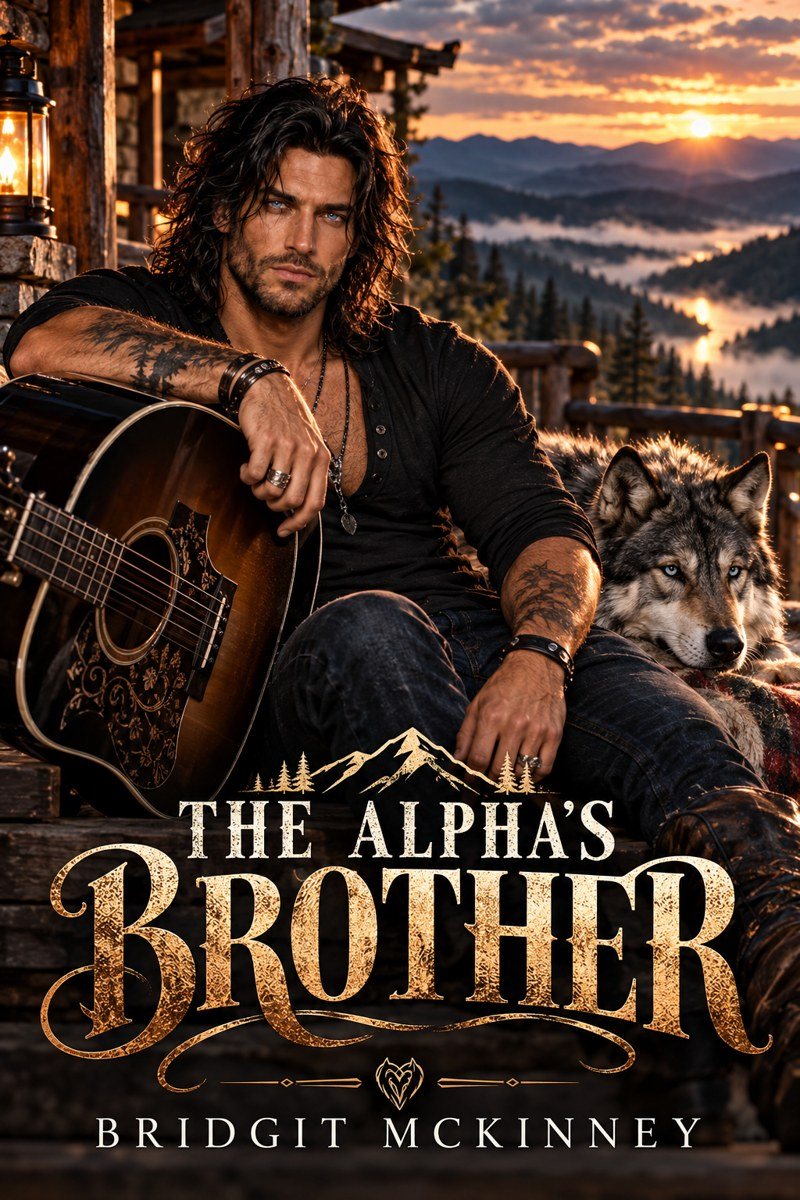
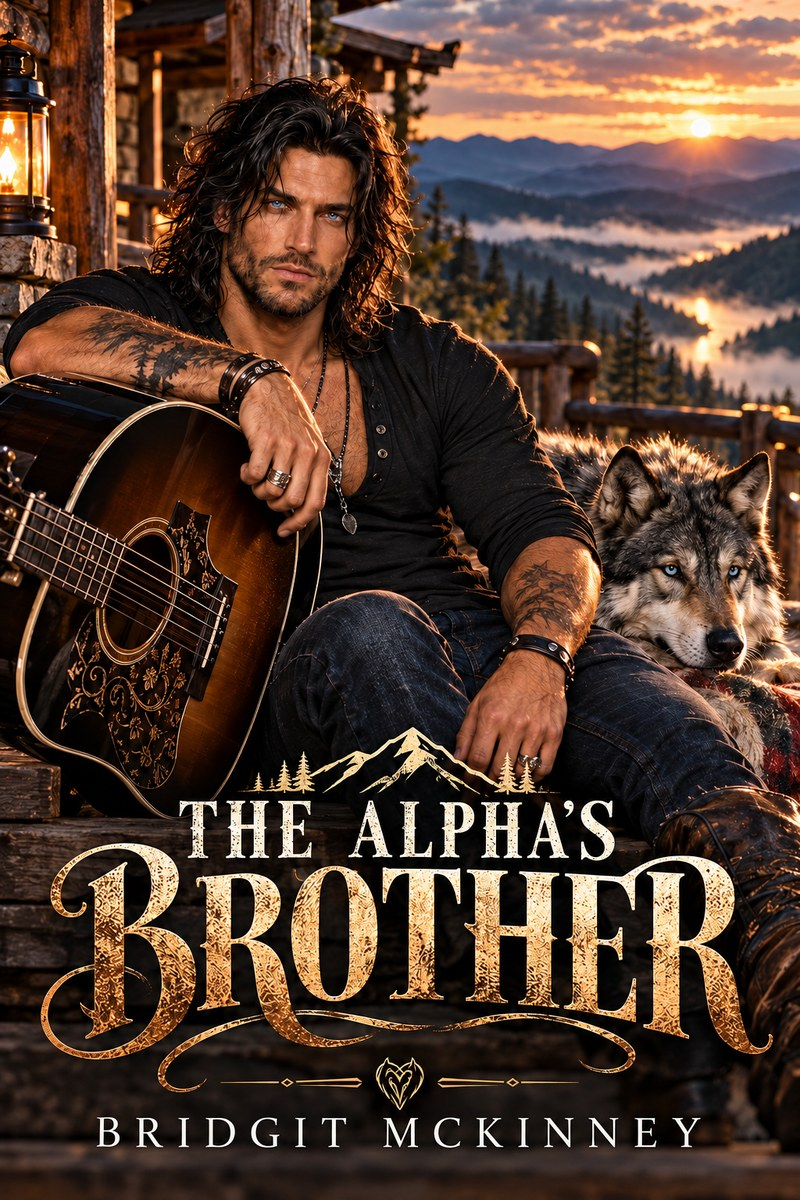
The Alpha's Brother: new cover, blurb and Kindle link
Claude-Session: https://claude.ai/code/session_012ddMaDk6KXdvRoiYAzbYob

diff --git a/books.html b/books.html
@@ -27,10 +27,16 @@
 <img class="cover" src="images/the-alphas-brother.jpg" width="800" height="1200" alt="Cover of The Alpha&rsquo;s Brother by Bridgit McKinney: a dark-haired man with a guitar sits on cabin steps beside a gray wolf at sunset in the mountains">
 <div>
 <h2>The Alpha&rsquo;s Brother</h2>
-<p class="status">A werewolf romance. Coming soon.</p>
-<p>Ryder Kane has a platinum record, a Harley, and a reputation that gets to the room before he does. He is also the younger brother of the Alpha of Black Heart Pack, the largest and strongest wolf pack in the United States, and the only wolf in line for a title he never wanted.</p>
-<p>The road was supposed to keep him free. Then fate hands him a mate who breaks him in front of the whole world, and a second chance he does not trust: Kira Vane, the smart-mouthed lead singer opening his stadium tour, who is not afraid of his name, his wolf, or his past.</p>
-<p>A country star. A pack a thousand wolves strong. And a woman who intends to keep him.</p>
+<p class="status">A werewolf romance. New release.</p>
+<p>He was the prince of the wolves and a multi-platinum country star who ruled the stage. But he could not outrun the ultimate betrayal.</p>
+<p>Ryder Kane lived his life entirely on his own terms. He stayed miles away from the Appalachian Mountains and the heavy weight of his alpha bloodline. He had freedom, fame, and a motorcycle that could outrun anything on the highway. He did not need an anchor, and he certainly did not think he needed a mate.</p>
+<p>That all changes when his Alpha brother is poisoned. A brutal countdown to a lawless pack challenge forces Ryder back home to face the shadows on the line.</p>
+<p>Arden Sterling spent her entire life bleeding on the training mats to earn her place as the next Pack Beta. She did not ask for a cosmic bond, and she definitely did not want it wrapped around a reckless, fast-living country music star who treated the pack like a pit stop. So she did the unthinkable. She accepted his mark, gave him hers, completed the bond, and then publicly and brutally ripped it apart.</p>
+<p>Left on his knees, physically shattered, and abandoned by his own silent wolf, Ryder walks away from everything he knew. He is convinced that the wreckage of his soul is permanent.</p>
+<p>But the road has one final twist.</p>
+<p>Enter Kira Vane, the sharp-witted, fiercely independent country singer sharing his stadium tour. She does not worship his fame, and she has never been looking for a fairytale. When a second-chance mate bond ignites between them, it is not a cosmic cage. It is a choice.</p>
+<p>From sold-out stadiums to a private sanctuary by the ocean, Kira meets his walls head-on and shows him a devotion worth staying for. But back on the mountain, a bitter, entitled ex-mate refuses to let them move on. When the flames of jealousy threaten to burn down everything they have built, Ryder will have to decide exactly how far he will go to protect the woman who finally gave his road a destination.</p>
+<a class="button" href="https://www.amazon.com/dp/B0HM1YNSRT">Kindle on Amazon</a>
 </div>
 </section>
 <section class="book" id="rook">

diff --git a/index.html b/index.html
@@ -36,7 +36,7 @@
 <h2>The books</h2>
 <p class="status">Choose a cover to read what the book is about.</p>
 <div class="shelf">
-<a href="books.html#the-alphas-brother"><img src="images/the-alphas-brother.jpg" alt="Cover of The Alpha&rsquo;s Brother"><b>The Alpha&rsquo;s Brother</b><span>Coming soon</span></a>
+<a href="books.html#the-alphas-brother"><img src="images/the-alphas-brother.jpg" alt="Cover of The Alpha&rsquo;s Brother"><b>The Alpha&rsquo;s Brother</b><span>New release</span></a>
 <a href="books.html#rook"><img src="images/rook.jpg" alt="Cover of Rook"><b>Rook</b></a>
 <a href="books.html#where-the-wild-sky-breaks"><img src="images/where-the-wild-sky-breaks.jpg" alt="Cover of Where the Wild Sky Breaks"><b>Where the Wild Sky Breaks</b></a>
 <a href="books.html#a-wolf-remembers"><img src="images/a-wolf-remembers.jpg" alt="Cover of A Wolf Remembers"><b>A Wolf Remembers</b><span>Pale Strand, book one</span></a>
